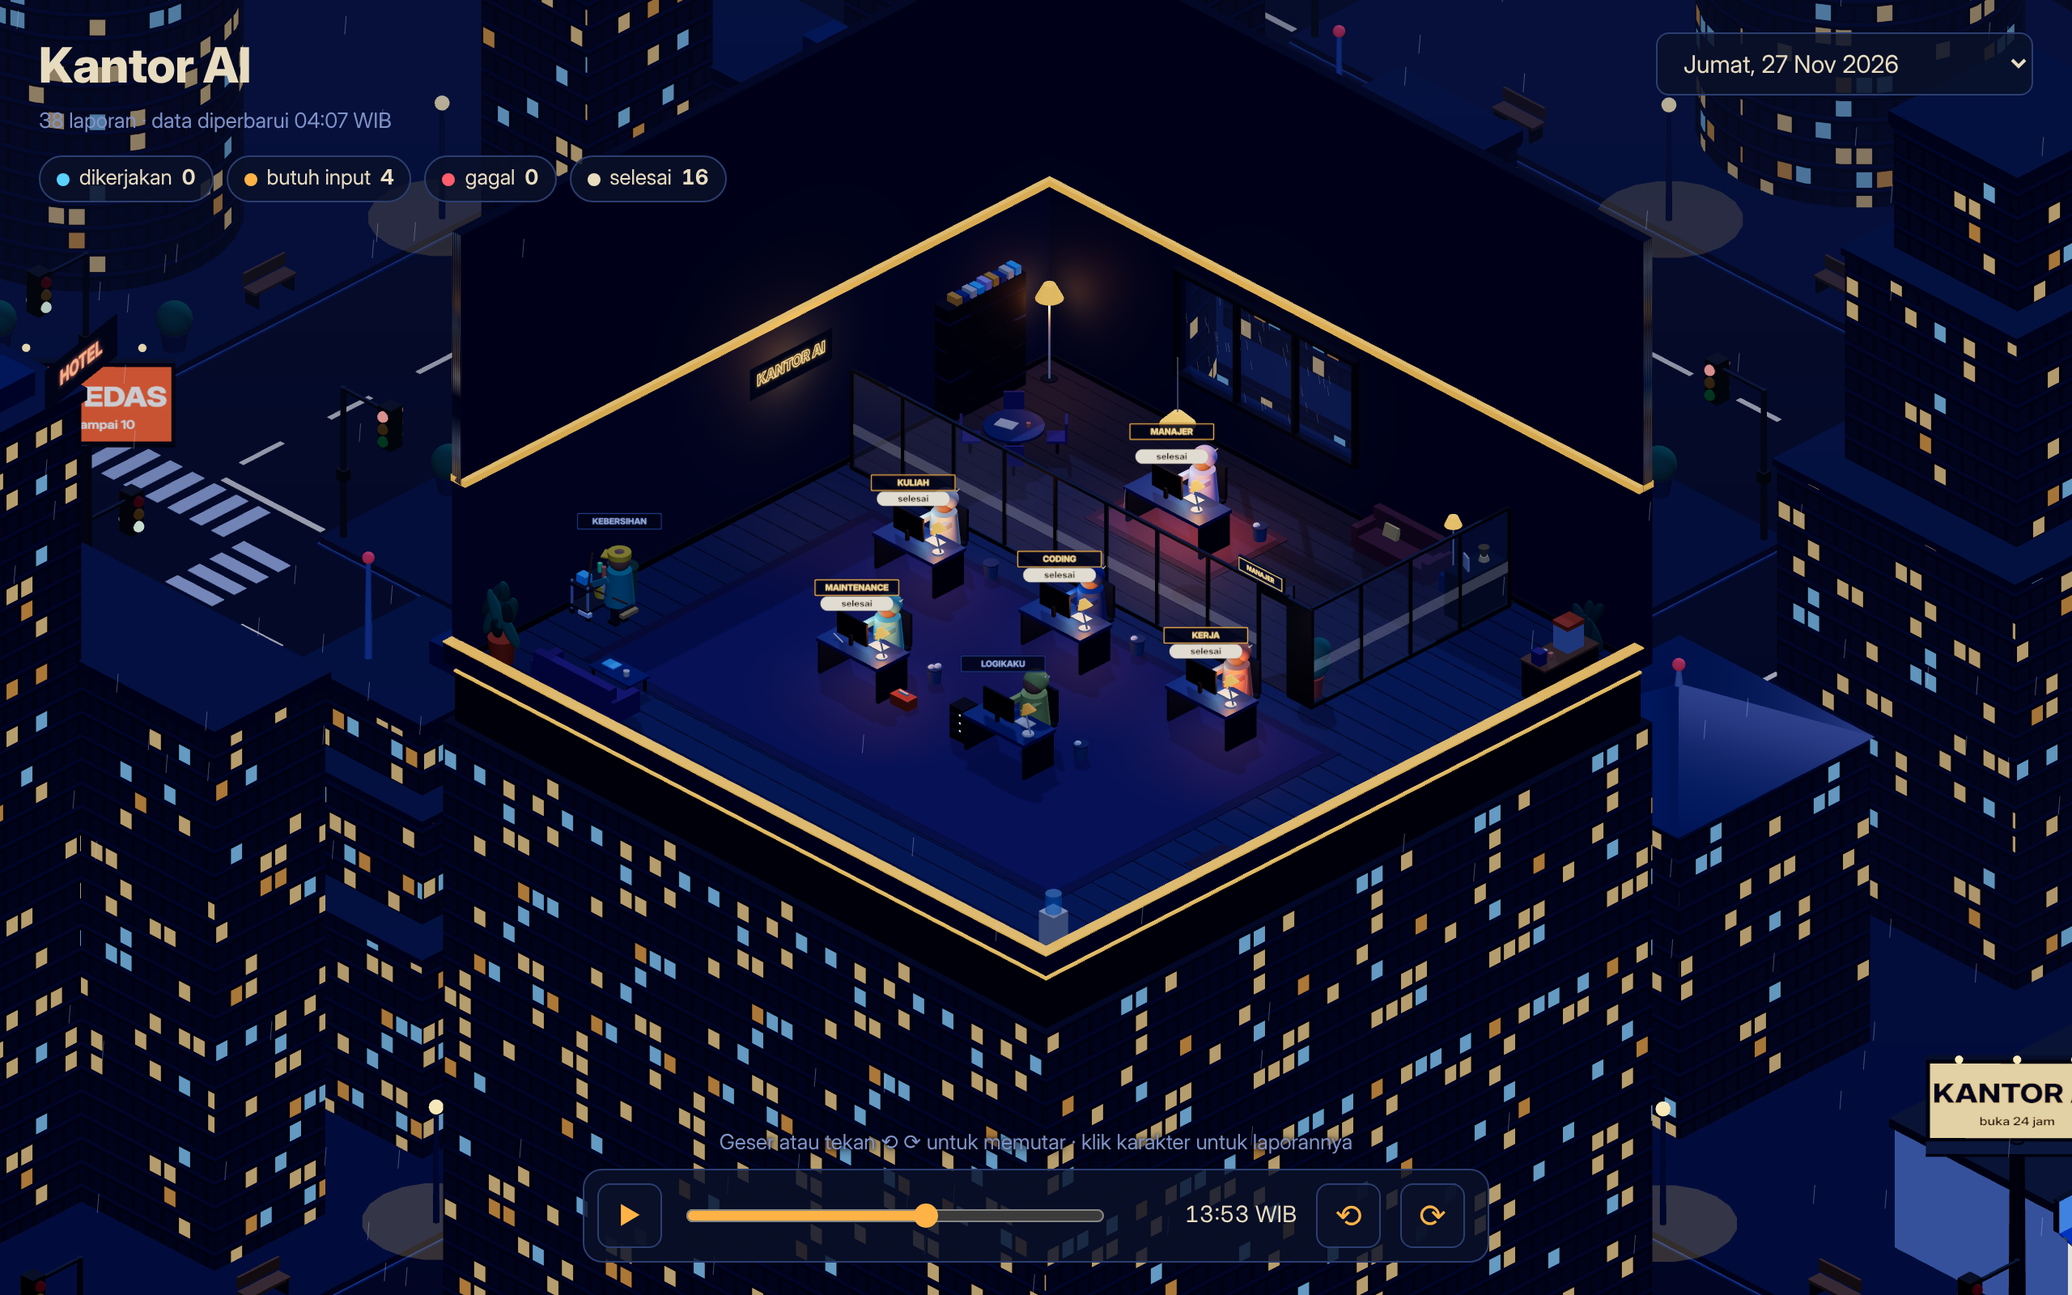
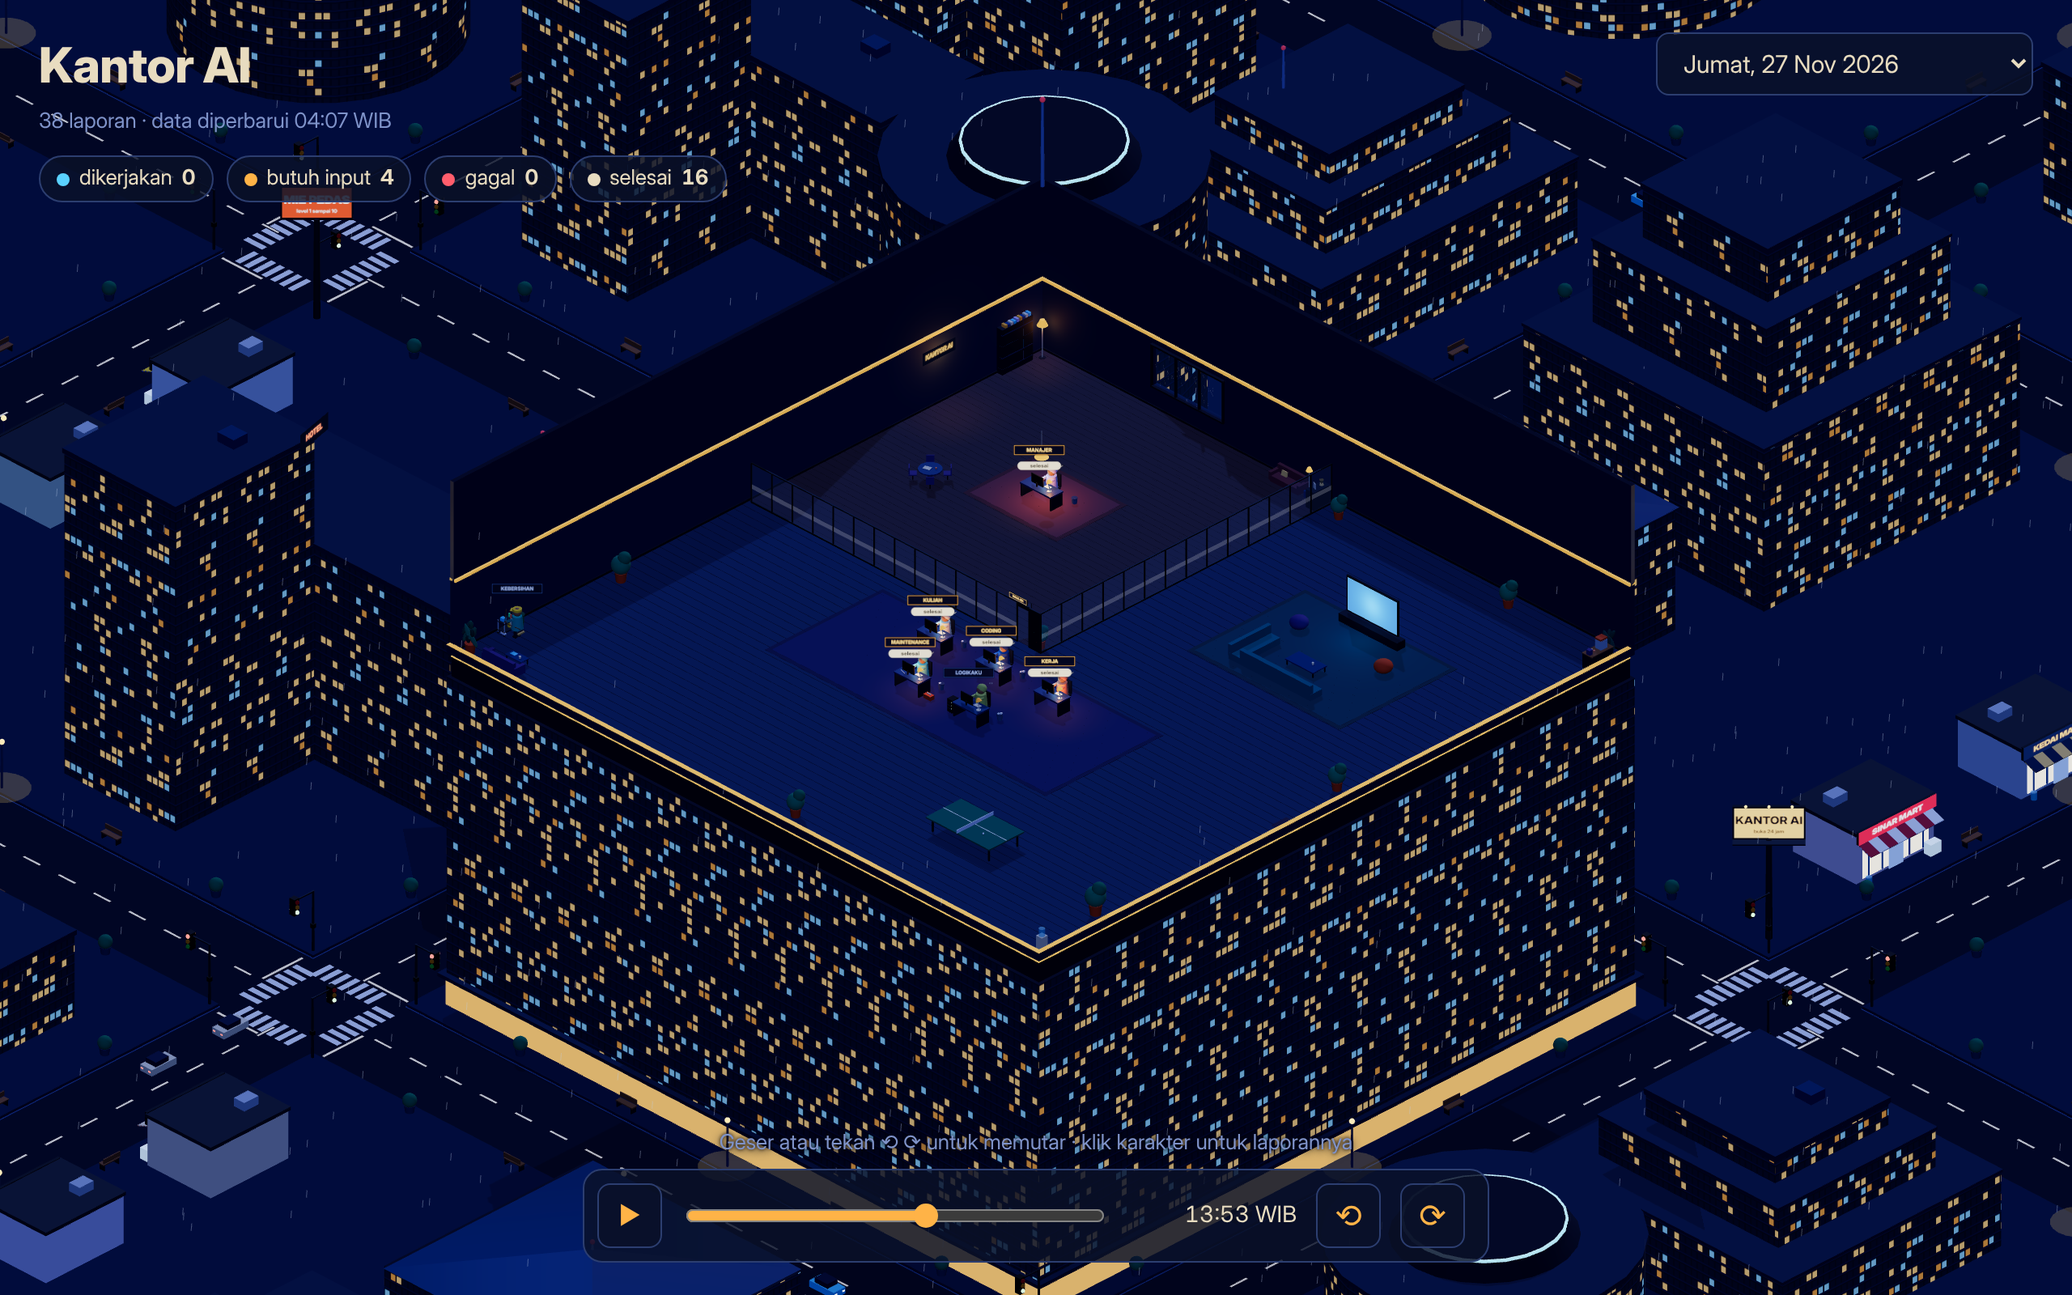
Kantor 3D: gedung 50x50, ruang manajer seperempat gedung (25x25)
Claude-Session: https://claude.ai/code/session_01TC1644zEPKkg35o3o8SKGe

diff --git a/kantor/app.js b/kantor/app.js
@@ -54,14 +54,14 @@ renderer.toneMapping = THREE.ACESFilmicToneMapping;
 renderer.toneMappingExposure = 1.15;
 
 const scene = new THREE.Scene();
-scene.fog = new THREE.Fog(0x0e1736, 125, 260); // gedung jauh dan bagian bawah kota memudar
-const kamera = new THREE.OrthographicCamera(-1, 1, 1, -1, 0.1, 600);
+scene.fog = new THREE.Fog(0x0e1736, 230, 520); // gedung jauh dan bagian bawah kota memudar
+const kamera = new THREE.OrthographicCamera(-1, 1, 1, -1, 0.1, 1400);
 const kontrol = new OrbitControls(kamera, kanvas);
 kontrol.enablePan = false;
 kontrol.enableDamping = true;
 kontrol.rotateSpeed = 1.6; // satu kali geser cukup untuk berputar jauh
-kontrol.minZoom = 0.7;
-kontrol.maxZoom = 2.6;
+kontrol.minZoom = 0.5;
+kontrol.maxZoom = 9; // lantai 50x50: boleh zoom dekat sampai karakter terlihat jelas
 kontrol.minPolarAngle = 0.7;
 kontrol.maxPolarAngle = 1.1;
 // putaran horizontal bebas 360 derajat (tanpa batas azimut)
@@ -90,11 +90,12 @@ function teksturKanvas(w, h, gambar) {
   return t;
 }
 /** Sprite teks yang bisa diganti isinya. */
+const SKALA_LABEL = 1.5; // label lebih besar supaya terbaca di lantai 50x50
 function papan(lebar = 2.1) {
   const cv = document.createElement('canvas'); cv.width = 512; cv.height = 128;
   const t = new THREE.CanvasTexture(cv); t.colorSpace = THREE.SRGBColorSpace;
   const s = new THREE.Sprite(new THREE.SpriteMaterial({ map: t, depthTest: false, transparent: true }));
-  s.scale.set(lebar, lebar / 4, 1); s.renderOrder = 10;
+  s.scale.set(lebar * SKALA_LABEL, (lebar * SKALA_LABEL) / 4, 1); s.renderOrder = 10;
   s.tulis = (teks, o) => {
     const g = cv.getContext('2d'); g.clearRect(0, 0, 512, 128);
     if (o.bg) { g.fillStyle = o.bg; g.beginPath(); g.roundRect(6, 14, 500, 100, o.bulat ?? 50); g.fill(); }
@@ -176,8 +177,8 @@ function bangunKota(lebar, dalam, dinding, r) {
   bola(0.18, mMerah, 0, 6.1, 0, antena); lampuAtap.push(mMerah);
 
   // ---- jalan: blok 19 x 19 dengan jalan selebar 8 di antaranya
-  const P = 33, N = 3, BATAS = (N + 0.5) * P, B = P - 8; // blok B x B, jalan selebar 8
-  kotak(420, 1, 420, mat(0x161d38, { r: 1 }), 0, TANAH - 0.5, 0); // aspal
+  const P = 62, N = 3, BATAS = (N + 0.5) * P, B = P - 8; // blok B x B, jalan selebar 8
+  kotak(1000, 1, 1000, mat(0x161d38, { r: 1 }), 0, TANAH - 0.5, 0); // aspal
   const mTrotoar = mat(0x232c4f, { r: 0.95 });
   const mMarka = mat(0xe8dcc0, { e: 0xe8dcc0, ei: 0.25 });
   const mZebra = mat(0xb8c4e0, { e: 0xb8c4e0, ei: 0.15 });
@@ -204,8 +205,8 @@ function bangunKota(lebar, dalam, dinding, r) {
     // lampu jalan di tengah keempat sisi blok, bangku di kiri-kanannya
     for (const [sx, sz] of [[0, -1], [1, 0], [0, 1], [-1, 0]]) {
       const lx = cx + (sx ? sx * (B / 2 - 0.4) : 0), lz = cz + (sz ? sz * (B / 2 - 0.4) : 0);
-      for (const geser of [-5.5, 5.5]) bangku(lx + (sz ? geser : 0) - sx * 0.35, lz + (sx ? geser : 0) - sz * 0.35, Math.atan2(sx, sz));
-      tanamanPot(lx + (sz ? 8.8 : 0) - sx * 0.3, lz + (sx ? 8.8 : 0) - sz * 0.3);
+      for (const geser of [-9, 9]) bangku(lx + (sz ? geser : 0) - sx * 0.35, lz + (sx ? geser : 0) - sz * 0.35, Math.atan2(sx, sz));
+      for (const pp of [-18, 18]) tanamanPot(lx + (sz ? pp : 0) - sx * 0.3, lz + (sx ? pp : 0) - sz * 0.3);
       tabung(0.06, 0.08, 3.2, 0x3a4566, lx, TANAH + 1.85, lz);
       bola(0.18, mLampuJalan, lx, TANAH + 3.5, lz);
       const s = new THREE.Mesh(new THREE.CircleGeometry(1.8, 20), mSinar);
@@ -300,7 +301,7 @@ function bangunKota(lebar, dalam, dinding, r) {
   /** Tinggi puncak maksimum supaya tidak menutupi ruangan dari sudut kamera mana pun. */
   const maksPuncak = (x, z, w, d) => {
     const dx = Math.max(0, Math.abs(x) - w / 2), dz = Math.max(0, Math.abs(z) - d / 2);
-    return 0.45 * Math.hypot(dx, dz) - 11;
+    return 0.5 * (Math.hypot(dx, dz) - Math.hypot(lebar, dalam) / 2) - 1;
   };
   const kotakGedung = (w, h, d, x, y0, z, i) => {
     const m = new THREE.Mesh(new THREE.BoxGeometry(w, h, d), [
@@ -448,20 +449,19 @@ function bangunKota(lebar, dalam, dinding, r) {
       const v = RITEL.get(`${i},${j}`);
       // sisi toko menghadap jalan yang paling dekat kamera bawaan (+x/+z) bila mungkin
       const sx = (v % 2 === 0) ? 1 : -1;
-      minimarket(cx + sx * 7.4, cz - 5.6, sx, 0, v * 2);
-      minimarket(cx + sx * 7.4, cz + 5.6, sx, 0, v * 2 + 1);
-      for (const sz of [-1, 1]) gedung(cx - sx * 5.8, cz + sz * 5.8, 7.5 + r(), 7.5 + r());
+      for (const [i2, dz] of [[0, -14], [1, 0], [2, 14]]) minimarket(cx + sx * (B / 2 - 5), cz + dz, sx, 0, v * 3 + i2);
+      for (const sz of [-1, 1]) gedung(cx - sx * 12, cz + sz * 12, 18 + r() * 4, 18 + r() * 4);
       const pz = v % 3 === 0 ? -1 : 1;
-      reklame(cx + sx * 11.4, cz + pz * 11.4, Math.atan2(sx, pz), v);
+      reklame(cx + sx * (B / 2 - 1.6), cz + pz * (B / 2 - 1.6), Math.atan2(sx, pz), v);
       continue;
     }
     const n = r();
-    if (n < 0.35) gedung(cx, cz, 13 + r() * 4, 13 + r() * 4);
+    if (n < 0.35) gedung(cx, cz, 30 + r() * 10, 30 + r() * 10);
     else if (n < 0.7) {
       const sb = r() < 0.5;
-      for (const s of [-1, 1]) gedung(cx + (sb ? s * 5.6 : 0), cz + (sb ? 0 : s * 5.6), sb ? 8 : 17, sb ? 17 : 8);
+      for (const s of [-1, 1]) gedung(cx + (sb ? s * 13 : 0), cz + (sb ? 0 : s * 13), sb ? 20 : 40, sb ? 40 : 20);
     } else for (const [sx, sz] of [[-1, -1], [1, -1], [-1, 1], [1, 1]]) {
-      if (r() < 0.8) gedung(cx + sx * 5.8, cz + sz * 5.8, 7.5 + r(), 7.5 + r());
+      if (r() < 0.8) gedung(cx + sx * 12.5, cz + sz * 12.5, 18 + r() * 4, 18 + r() * 4);
     }
   }
 
@@ -490,7 +490,7 @@ function bangunRuangan(lebar, dalam) {
   scene.add(new THREE.HemisphereLight(0x6f8fe8, 0x1b2a4e, 1.1));
   const bulan = new THREE.DirectionalLight(0x7fa0ff, 0.55);
   bulan.position.set(-10, 14, -8); bulan.castShadow = true;
-  Object.assign(bulan.shadow.camera, { left: -20, right: 20, top: 20, bottom: -20 });
+  Object.assign(bulan.shadow.camera, { left: -36, right: 36, top: 36, bottom: -36 });
   bulan.shadow.mapSize.set(2048, 2048); scene.add(bulan);
   const isi = new THREE.DirectionalLight(0x8fa8ff, 0.6); isi.position.set(14, 10, 14); scene.add(isi);
   const tepi = new THREE.DirectionalLight(0xb8c8ff, 0.9); tepi.position.set(-4, 8, -14); scene.add(tepi);
@@ -509,7 +509,7 @@ function bangunRuangan(lebar, dalam) {
   scene.add(dBelakang, dKiri, dDepan, dKanan, ...Object.values(pendek));
   const LW = lebar + 0.6, TP = 0.55; // lebar dinding depan/belakang (menutup sudut), tinggi tembok pendek
   // dinding belakang dan depan berlubang jendela (kaca tembus pandang ke kota)
-  const JB = { x: -2.5, w: 6 }, JD = { x: 2.2, w: 5 }, JY0 = 1.6, JY1 = 4.4;
+  const JB = { x: -12.5, w: 6 }, JD = { x: 2.2, w: 5 }, JY0 = 1.6, JY1 = 4.4;
   const mKaca = new THREE.MeshStandardMaterial({ color: 0x9fc4ff, transparent: true, opacity: 0.12, roughness: 0.05, metalness: 0.2, depthWrite: false });
   const dindingJendela = (j, z, induk) => {
     const kiri = j.x - j.w / 2 + LW / 2, kanan = LW / 2 - (j.x + j.w / 2);
@@ -637,9 +637,39 @@ function bangunRuangan(lebar, dalam) {
   jamM.rotation.y = -Math.PI / 2; jamM.position.set(RX - 0.06, 3.9, -0.6); dKanan.add(jamM);
 
   // ---- karpet di bawah meja departemen
-  const kz0 = -RZ + 8.0, kz1 = RZ - 2.2; // karpet di bawah baris meja departemen
-  kotak(lebar - 4, 0.02, kz1 - kz0, 0x2a2350, 0, 0.025, (kz0 + kz1) / 2, scene, false).receiveShadow = true;
-  kotak(lebar - 4.6, 0.022, kz1 - kz0 - 0.6, 0x342c62, 0, 0.03, (kz0 + kz1) / 2, scene, false).receiveShadow = true;
+  const kz0 = 1.5, kz1 = 11.5; // karpet di bawah baris meja departemen
+  kotak(24, 0.02, kz1 - kz0, 0x2a2350, 0, 0.025, (kz0 + kz1) / 2, scene, false).receiveShadow = true;
+  kotak(23.4, 0.022, kz1 - kz0 - 0.6, 0x342c62, 0, 0.03, (kz0 + kz1) / 2, scene, false).receiveShadow = true;
+
+  // ---- ruang santai di seperempat kanan belakang: karpet, sofa L, TV, bean bag
+  const lx0 = RX / 2, lz0 = -RZ / 2;
+  kotak(13, 0.02, 10, 0x1f3a4a, lx0, 0.025, lz0 + 1, scene, false).receiveShadow = true;
+  kotak(12.4, 0.022, 9.4, 0x27485a, lx0, 0.03, lz0 + 1, scene, false).receiveShadow = true;
+  const mSofaL = mat(0x3a6f7a, { r: 0.95 });
+  kotak(6, 0.45, 1, mSofaL, lx0, 0.32, lz0 + 4.5); kotak(6, 0.8, 0.28, mSofaL, lx0, 0.75, lz0 + 4.9);
+  kotak(1, 0.45, 3.4, mSofaL, lx0 - 3.5, 0.32, lz0 + 3.3); kotak(0.28, 0.8, 3.4, mSofaL, lx0 - 3.9, 0.75, lz0 + 3.3);
+  for (const dx of [-1.6, 0.4, 2.0]) kotak(0.6, 0.4, 0.14, [0xffcf7a, 0xff8f6b, 0xc9b9e8][Math.round(dx + 2) % 3], lx0 + dx, 0.7, lz0 + 4.65).rotation.x = -0.3;
+  kotak(2.4, 0.08, 1.2, WARNA.meja, lx0, 0.42, lz0 + 2.4);
+  for (const [dx, dz] of [[-1.1, -0.5], [1.1, -0.5], [-1.1, 0.5], [1.1, 0.5]]) kotak(0.07, 0.4, 0.07, WARNA.gelap, lx0 + dx, 0.2, lz0 + 2.4 + dz);
+  tabung(0.08, 0.07, 0.14, WARNA.krem, lx0 + 0.5, 0.53, lz0 + 2.3);
+  // lemari TV dengan layar menyala
+  kotak(5, 0.6, 0.7, WARNA.gelap, lx0, 0.3, lz0 - 3.2);
+  kotak(4.4, 2.5, 0.12, 0x0a0f22, lx0, 2.0, lz0 - 3.3);
+  const mTV = mat(0x5ad1ff, { e: 0x3a7fd6, ei: 0.9 });
+  kotak(4.2, 2.3, 0.02, mTV, lx0, 2.0, lz0 - 3.23, scene, false);
+  const lampuTV = new THREE.PointLight(0x5ad1ff, 3, 7, 1.6); lampuTV.position.set(lx0, 2, lz0 - 2.2); scene.add(lampuTV);
+  for (const [dx, w] of [[-3.6, 0x5b3f7a], [3.6, 0xd9532b]]) { const bb = bola(0.6, w, lx0 + dx, 0.45, lz0 - 0.6); bb.scale.set(1, 0.7, 1); }
+  // tanaman besar mengisi sudut-sudut kosong
+  for (const [tx, tz, s] of [[RX - 1.2, -1.5, 1], [RX - 1.2, RZ - 6, 1.2], [3, RZ - 1.2, 1], [-RX + 1.2, 12, 1.1], [1.5, -RZ + 1.2, 0.9], [RX - 9, -RZ + 1.2, 1]]) {
+    tabung(0.35 * s, 0.28 * s, 0.6 * s, 0xd9532b, tx, 0.3 * s, tz);
+    bola(0.55 * s, 0x4f8a6b, tx, 1.05 * s, tz); bola(0.38 * s, 0x3f7a5e, tx + 0.2, 1.5 * s, tz - 0.1);
+  }
+  // meja pingpong di area depan
+  const px0 = RX / 2, pz0 = RZ - 7;
+  kotak(5.4, 0.1, 3, 0x2f6f5e, px0, 1.0, pz0); kotak(5.4, 0.012, 0.05, 0xffffff, px0, 1.06, pz0, scene, false);
+  kotak(0.04, 0.25, 3.1, 0xe8eef8, px0, 1.17, pz0, scene, false);
+  for (const [dx, dz] of [[-2.4, -1.2], [2.4, -1.2], [-2.4, 1.2], [2.4, 1.2]]) kotak(0.1, 0.95, 0.1, WARNA.gelap, px0 + dx, 0.48, pz0 + dz);
+  bola(0.06, 0xffffff, px0 + 1.2, 1.12, pz0 + 0.5);
 
   // ---- pojok santai: sofa dan meja kopi
   const sx = -RX + 3.5, sz = RZ - 0.75;
@@ -692,8 +722,8 @@ function bangunRuangan(lebar, dalam) {
   // tempat yang didatangi pegawai yang sedang jalan-jalan (arah = hadap tubuh, radian)
   tempatJalan = [
     { x: 2.2, z: RZ - 0.8, arah: 0 }, // jendela depan
-    { x: 0.6, z: -RZ + 7.6, arah: Math.PI }, // mengintip ruang manajer lewat kaca
-    { x: -RX + 1.3, z: -RZ + 8.8, arah: -Math.PI / 2 }, // neon KANTOR AI
+    { x: -3, z: 1.0, arah: Math.PI }, // mengintip ruang manajer lewat kaca
+    { x: RX / 2, z: -3.5, arah: Math.PI }, // menonton TV di ruang santai
     { x: RX - 1.3, z: RZ - 0.8, arah: Math.PI / 2 }, // dispenser
     { x: LORONG_X, z: 1.6, arah: Math.PI / 2 }, // papan tulis dari jauh
   ];
@@ -715,8 +745,8 @@ function bangunRuangan(lebar, dalam) {
 
   // hujan di luar lempeng
   const titik = [];
-  for (let i = 0; i < 420; i++) {
-    const x = (r() - 0.5) * 70, z = (r() - 0.5) * 70;
+  for (let i = 0; i < 900; i++) {
+    const x = (r() - 0.5) * 140, z = (r() - 0.5) * 140;
     if (Math.abs(x) < RX + 0.5 && Math.abs(z) < RZ + 0.5) continue;
     const y = r() * 41 - 25;
     titik.push(x, y, z, x - 0.05, y - 0.55, z);
@@ -814,15 +844,15 @@ function bangunRuangManajer(r, meja) {
   kotak(1.55, 0.42, 0.06, mRangka, pintu.x - 0.4, T + 0.28, z1, scene, false);
 
   // karpet di bawah meja manajer
-  kotak(4.2, 0.02, 2.8, 0x5b2f3a, meja.x, 0.05, meja.z - 0.3, scene, false).receiveShadow = true;
-  kotak(3.8, 0.022, 2.4, 0x7a3f4c, meja.x, 0.055, meja.z - 0.3, scene, false).receiveShadow = true;
+  kotak(8, 0.02, 6, 0x5b2f3a, meja.x, 0.05, meja.z - 0.3, scene, false).receiveShadow = true;
+  kotak(7.4, 0.022, 5.4, 0x7a3f4c, meja.x, 0.055, meja.z - 0.3, scene, false).receiveShadow = true;
   // lampu gantung di atas meja
   tabung(0.015, 0.015, 1.6, WARNA.krem, meja.x, 4.2, meja.z, scene);
   tabung(0.12, 0.45, 0.35, mat(WARNA.sodium, { e: WARNA.sodium, ei: 0.8 }), meja.x, 3.3, meja.z);
   const lampuGantung = new THREE.PointLight(0xffb347, 5, 6, 1.5); lampuGantung.position.set(meja.x, 3.0, meja.z); scene.add(lampuGantung);
 
   // meja rapat bundar dengan empat kursi
-  const mx = x0 + 2.55, mz = (z0 + z1) / 2 + 0.25;
+  const mx = x0 + 6, mz = (z0 + z1) / 2 + 3;
   tabung(0.75, 0.75, 0.07, mat(WARNA.meja, { r: 0.5 }), mx, 0.78, mz);
   tabung(0.08, 0.2, 0.75, WARNA.gelap, mx, 0.38, mz);
   for (let i = 0; i < 4; i++) {
@@ -934,9 +964,9 @@ function bangunMeja(k, x, z, indeks) {
   cangkir.visible = false;
 
   // papan nama dan status
-  const nama = papan(2.1); nama.position.set(0, besar ? 3.0 : 2.75, 0.2); grup.add(nama);
-  const status = papan(1.8); status.position.set(0, 2.3, 0.2); grup.add(status);
-  const ikon = papan(1.0); ikon.position.set(0.5, 2.25, -0.8); grup.add(ikon);
+  const nama = papan(2.1); nama.position.set(0, besar ? 3.7 : 3.4, 0.2); grup.add(nama);
+  const status = papan(1.8); status.position.set(0, 2.6, 0.2); grup.add(status);
+  const ikon = papan(1.0); ikon.position.set(0.9, 2.55, -0.8); grup.add(ikon);
 
   grup.traverse((o) => { if (o.isMesh) { o.userData.id = k.id; target.push(o); } });
 
@@ -1079,7 +1109,7 @@ function bangunMeja(k, x, z, indeks) {
     cahayaLampu.intensity = lampu; cahayaLayar.intensity = layar;
     mTudung.emissiveIntensity = lampu > 0 ? 0.3 + lampu / 8 : 0.15;
     mLayar.emissiveIntensity = s === 'kosong' ? 0.2 : 0.4 + layar / 3;
-    ikon.position.y = 2.25 + Math.sin(t * 1.6 + indeks) * 0.08;
+    ikon.position.y = 2.55 + Math.sin(t * 1.6 + indeks) * 0.08;
     ikon.visible = gerak.mode !== 'pergi' && gerak.mode !== 'pulang' && gerak.mode !== 'di-tujuan'
       && (s === 'kosong' || s === 'butuh-input' || s === 'selesai');
   }
@@ -1152,9 +1182,9 @@ function bangunPetugas(k, pos, indeks) {
   const kantong = bola(0.2, 0x141820, 0, -0.22, 0.62, lengan[0]); kantong.scale.set(1, 1.2, 1); kantong.visible = false;
 
   // papan nama, status, dan gelembung ucapan ikut bergerak bersama petugas
-  const nama = papan(2.1); nama.position.set(0, 2.85, 0); orang.add(nama);
-  const status = papan(1.8); status.position.set(0, 2.4, 0); orang.add(status);
-  const ucap = papan(2.0); ucap.position.set(0, 3.35, 0); ucap.visible = false; orang.add(ucap);
+  const nama = papan(2.1); nama.position.set(0, 3.4, 0); orang.add(nama);
+  const status = papan(1.8); status.position.set(0, 2.6, 0); orang.add(status);
+  const ucap = papan(2.0); ucap.position.set(0, 4.25, 0); ucap.visible = false; orang.add(ucap);
 
   orang.traverse((o) => { if (o.isMesh) { o.userData.id = k.id; target.push(o); } });
   troli.traverse((o) => { if (o.isMesh) { o.userData.id = k.id; target.push(o); } });
@@ -1279,7 +1309,7 @@ function bangunPetugas(k, pos, indeks) {
     perilaku(dt, t);
     const s = sekarang;
     // status ikut terlihat dari warna topi saat sedang bertugas
-    status.position.y = 2.4 + (s === 'butuh-input' ? Math.sin(t * 2.4) * 0.05 : 0);
+    status.position.y = 2.6 + (s === 'butuh-input' ? Math.sin(t * 2.4) * 0.05 : 0);
   }
   setStatus('kosong');
   mulai('diam', 2 + Math.random() * 3);

diff --git a/kantor/status.js b/kantor/status.js
@@ -3,6 +3,10 @@
 // Semua waktu laporan memakai offset +07:00 (dijamin tools/cek_laporan.py),
 // jadi tanggal dan jam WIB bisa dibaca langsung dari teksnya.
 
+/** Ukuran lantai kantor (satuan dunia). */
+export const LEBAR = 50;
+export const DALAM = 50;
+
 export const STATUS = ['dikerjakan', 'butuh-input', 'gagal', 'selesai'];
 export const SEHARI = 86399; // detik terakhir dalam sehari (23:59:59)
 
@@ -79,32 +83,30 @@ export function tataMeja(karyawan) {
   const petugas = karyawan.filter((k) => k.id === PETUGAS);
   const perBaris = lain.length === 4 ? 4 : 3; // empat departemen muat sebaris
   const jarak = perBaris === 4 ? 4.2 : 5;
-  const baris = Math.max(1, Math.ceil(lain.length / perBaris));
-  const dalam = 11.2 + baris * 4.4;
+  const dalam = DALAM;
   const meja = [];
-  let z0 = -dalam / 2 + 3.6;
-  // manajer punya ruangan sendiri berdinding kaca di sisi belakang lantai yang sama
-  for (const k of manajer) meja.push({ id: k.id, x: manajer.length ? MANAJER_X : 0, z: z0 });
-  z0 = -dalam / 2 + (manajer.length ? 9.4 : 3.8);
+  // manajer punya ruangan sendiri berdinding kaca: seperempat lantai di belakang kiri
+  for (const k of manajer) meja.push({ id: k.id, x: MANAJER_X, z: -dalam / 4 });
+  // departemen di separuh depan, tepat di depan ruang manajer
+  const z0 = manajer.length ? 4 : -dalam / 2 + 3.8;
   lain.forEach((k, i) => {
     const r = Math.floor(i / perBaris), sisa = Math.min(perBaris, lain.length - r * perBaris), c = i % perBaris;
     meja.push({ id: k.id, x: (c - (sisa - 1) / 2) * jarak, z: z0 + r * 4.4 });
   });
   // petugas kebersihan tidak punya meja: ia mangkal di troli kebersihan di sisi kiri depan
-  for (const k of petugas) meja.push({ id: k.id, x: POS_PETUGAS.x, z: -dalam / 2 + POS_PETUGAS.dariBelakang });
+  for (const k of petugas) meja.push({ id: k.id, x: POS_PETUGAS.x, z: dalam / 2 - POS_PETUGAS.dariDepan });
   const lebar = LEBAR;
   const ruangManajer = manajer.length ? {
-    x0: -lebar / 2, x1: 6, z0: -dalam / 2, z1: -dalam / 2 + 7,
-    pintu: { x: 4.7, z: -dalam / 2 + 7 },
+    x0: -lebar / 2, x1: 0, z0: -dalam / 2, z1: 0,
+    pintu: { x: -1.5, z: 0 },
   } : null;
   return { meja, lebar, dalam, ruangManajer };
 }
 
 /** Posisi x meja manajer di dalam ruangannya (membelakangi jendela belakang). */
-export const MANAJER_X = -2;
+export const MANAJER_X = -LEBAR / 4;
 
 /** Lorong samping kiri dan kanan (koordinat x) yang bebas meja, untuk berjalan. */
-export const LEBAR = 20;
 export const LORONG_X = LEBAR / 2 - 1.3;
 
 /**
@@ -140,7 +142,7 @@ export function menganggur(status) {
 /** id petugas kebersihan (cleaning service) di karyawan.json. */
 export const PETUGAS = 'kebersihan';
 /** Tempat mangkal petugas kebersihan: di depan troli, dekat dinding kiri. */
-export const POS_PETUGAS = { x: -LORONG_X + 0.1, dariBelakang: 16 };
+export const POS_PETUGAS = { x: -LORONG_X + 0.1, dariDepan: 4 };
 
 /**
  * Rute petugas kebersihan dari titik a ke titik b lewat lorong samping kiri.
